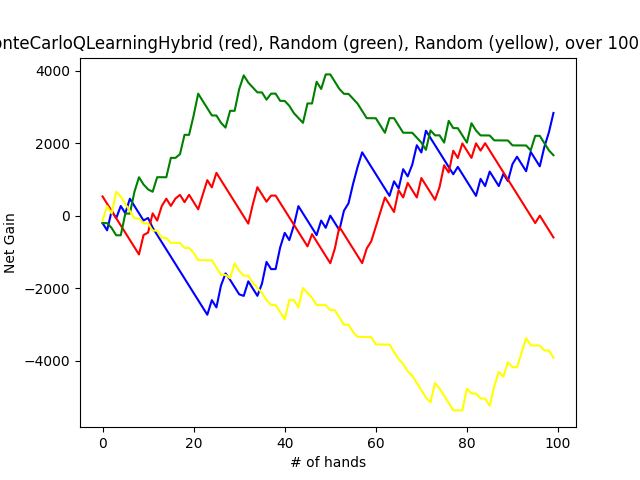
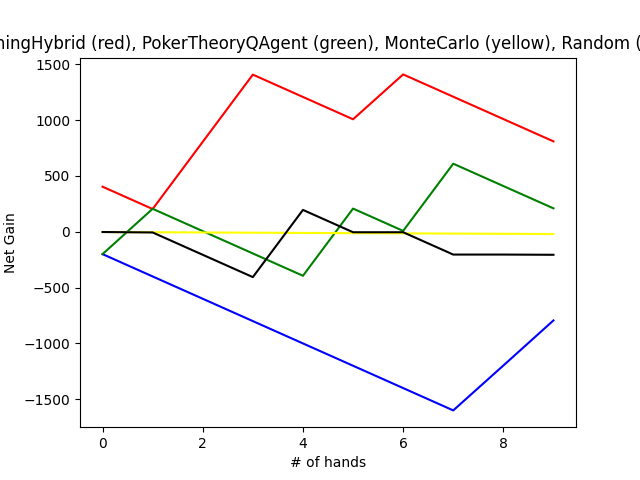
Restore the real evaluate script

diff --git a/scripts/evaluate.py b/scripts/evaluate.py
@@ -1,70 +1,71 @@
 import sys
 import game
 import os
-
 from contextlib import redirect_stdout
 import matplotlib.pyplot as plt
-
-
-def main():
+from scripts.utils import get_not_busted
+import argparse
+import player
+def main(advanced_tracking: bool):
     """
     Simulates a game of Texas Hold'em
     """
-    mc_folds = 0
-    rand_folds = 0
+    players = [("QLearningAgent",
+                "saved_models/q_learning_agent.pth"),
+                ("MonteCarloQLearningHybrid", "saved_models/montecarlo_q_hybrid.pth"), 
+                ("PokerTheoryQAgent",
+                "saved_models/poker_theory_model.pth"),
+                ("MonteCarlo", None),
+                ("Random", None)]
+
     i = 0
-    mc_balance = [0]
-    random_balance = [0]
-    mc_in = 0
-    rand_in = 0
-    mc_sum = 0
-    rand_sum = 0
+    balances = [[] for _ in players]
+    sums = [0]*len(players)
+    game_balances = [0]*len(players)
+    games = 0
+    if advanced_tracking:
+        wrappers = [player.ActionTracker() for _ in players]
+    with open(os.devnull, 'w') as fnull:
+        with redirect_stdout(fnull):
+            n = 10
+            while i < n:
+                g = game.Game(players, 200)
 
-    # with open(os.devnull, 'w') as fnull:
-    #     with redirect_stdout(fnull):
-    while i<1000:
-        g = game.Game(["BCPlayer", "Random"], 200)
-        mc_in+=1
-        rand_in+=1
-        while i<1000 and  get_not_busted(g) > 1 and not g.user_ended:
-            print(f"We have simulated {i} hands")
-            g.step()
-            i+=1
-            mc_balance.append(g.players[0].balance-(mc_in*200)+mc_sum)
-            random_balance.append(g.players[1].balance-(rand_in*200)+rand_sum)
-            mc_game = g.players[0].balance
-            rand_game = g.players[1].balance
-        mc_folds+=g.players[0].folds
-        rand_folds+=g.players[1].folds
-        mc_sum+=mc_game
-        rand_sum+=rand_game
-    print(f"BC folded {mc_folds} of the hands!")
-    print(f"Random folded {rand_folds} of the hands!")
-    print(mc_balance[-1])
-    print(random_balance[-1])
-    plt.plot(range(len(mc_balance)), mc_balance, color='blue')
-    plt.plot(range(len(random_balance)), random_balance, color='red')
-    plt.title('Monte Carlo vs Random')            
-    plt.xlabel('# of hands')            
-    plt.ylabel('Net Gain')            
-
+                if advanced_tracking:
+                    for wrapper, new_player in zip(wrappers, g.players):
+                        wrapper.underlying_agent = new_player
+                    g.players = wrappers
+                games += 1
+                while i < n and get_not_busted(g, 2) == len(players) and not g.user_ended:
+                    print(f"We have simulated {i} hands")
+                    g.step()
+                    i += 1
+                    for j in range(len(players)):
+                        balances[j].append(
+                            g.players[j].balance-(games*200)+sums[j])
+                        game_balances[j] = g.players[j].balance
+                for j in range(len(players)):
+                    sums[j] += game_balances[j]
+    if advanced_tracking:
+        for i in range(len(wrappers)):
+            print(f"____________player{i} statistics ({players[i][0]})_____________")
+            wrappers[i].print_compiled_actions()
+    colors = ["blue", "red", "green", "yellow", "black"]
+    for j in range(len(players)):
+        plt.plot(range(len(balances[j])), balances[j], color=colors[j])
+    title = ""
+    for j in range(len(players)):
+        title += players[j][0]+" ("+colors[j]+"), "
+    plt.title(f'{title}over {n} hands which took {games} games')
+    plt.xlabel('# of hands')
+    plt.ylabel('Net Gain')
     plt.savefig("my_plot.png")
-
     plt.show()
-    
-
-def get_not_busted(g):
-    """
-    Returns the number of players with a nonzero stack
-
-    param g: the Game() object
-    """
-    num_players_not_busted = 0
-    for player in g.players:
-        if player.balance >2:
-            num_players_not_busted += 1
-    return num_players_not_busted
 
 
 if __name__ == "__main__":
-    main()
+    parser = argparse.ArgumentParser(description="Save Pytorch Model Parser")
+    parser.add_argument("--advanced_tracking", action="store_true",
+                        help="If active, saves the model to specified location")
+    args = parser.parse_args()
+    main(args.advanced_tracking)
